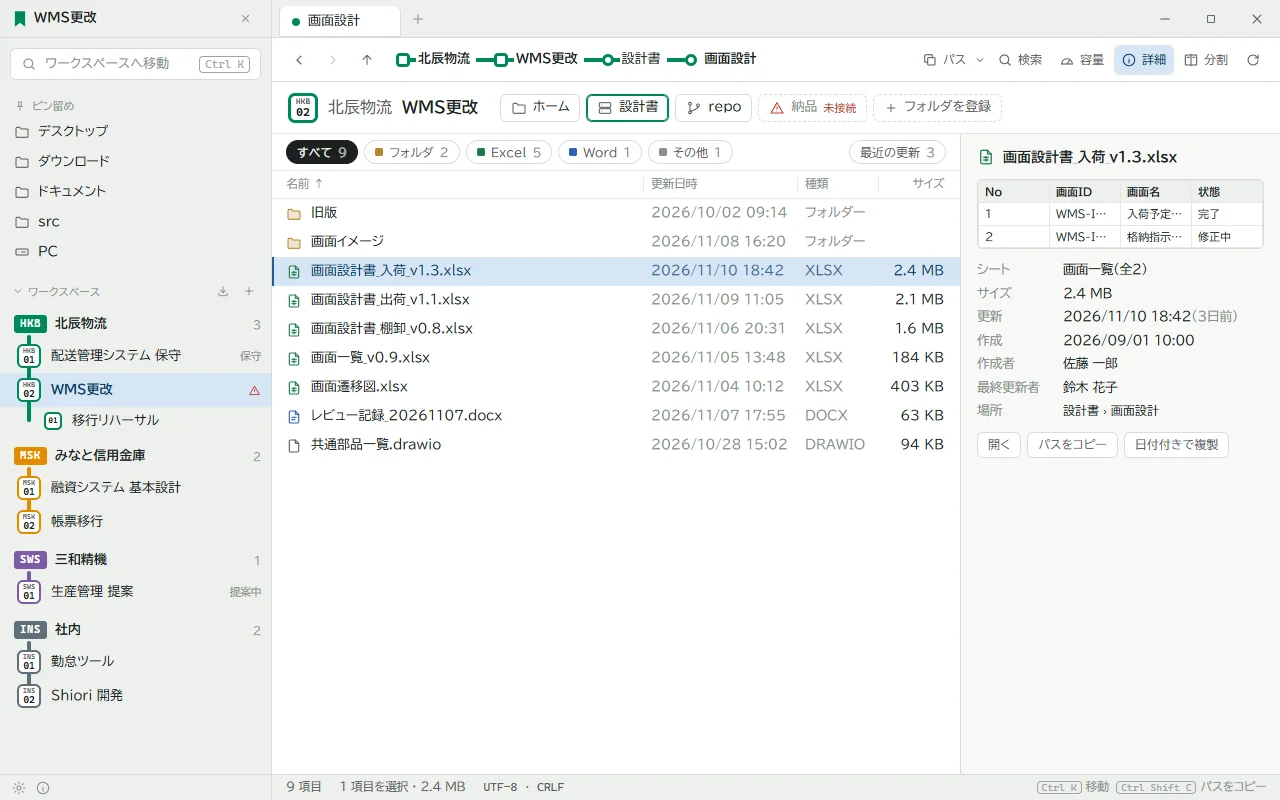
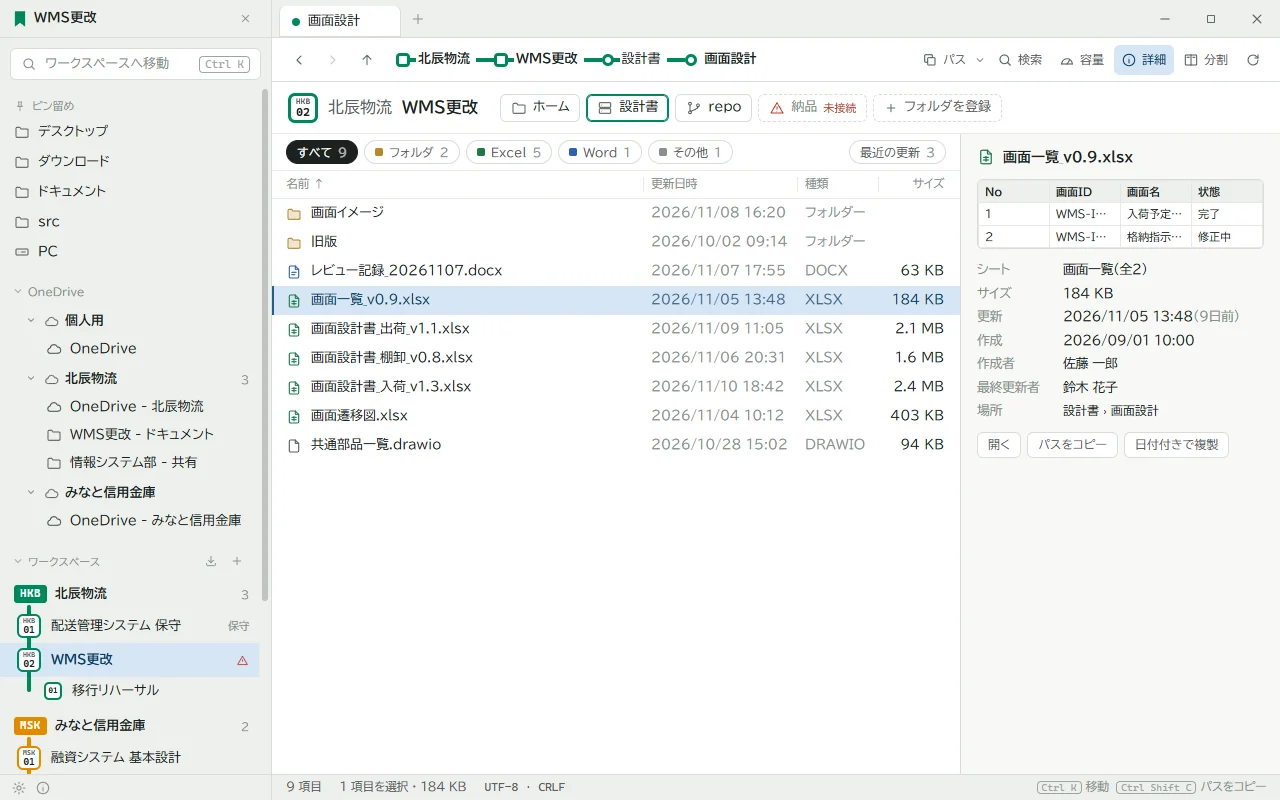
使い方ガイドを更新する
- Git: ログ（グラフ・アクション・変更行の合計）、ほかのブランチの表示、差分のウィンドウ（色分け）
- 画面の見かた: OneDrive の欄を追加。画面の写真を今のものに撮り直す
- 並び順（フォルダごとに保存、ダウンロードは新しい順）、OneDrive、見つからないフォルダの扱い

diff --git a/guide/index.html b/guide/index.html
@@ -103,18 +103,20 @@
         <img src="img/overview.webp" alt="Shiori の画面全体。左にサイドバー、右にファイルの一覧" width="1280" height="800">
         <span class="pin" style="left: 22%; top: 7.9%">1</span>
         <span class="pin" style="left: 15.6%; top: 20%">2</span>
-        <span class="pin" style="left: 15.6%; top: 40.4%">3</span>
-        <span class="pin" style="left: 32.6%; top: 2.5%">4</span>
-        <span class="pin" style="left: 61.7%; top: 7.3%">5</span>
-        <span class="pin" style="left: 85.2%; top: 11%">6</span>
-        <span class="pin" style="left: 80.8%; top: 13.3%">7</span>
-        <span class="pin" style="left: 58.6%; top: 19%">8</span>
-        <span class="pin" style="left: 46.9%; top: 70%">9</span>
-        <span class="pin" style="left: 6.5%; top: 98%">10</span>
+        <span class="pin" style="left: 15.6%; top: 36.5%">3</span>
+        <span class="pin" style="left: 15.6%; top: 74.1%">4</span>
+        <span class="pin" style="left: 32.6%; top: 2.5%">5</span>
+        <span class="pin" style="left: 61.7%; top: 7.3%">6</span>
+        <span class="pin" style="left: 85.2%; top: 11%">7</span>
+        <span class="pin" style="left: 80.8%; top: 13.3%">8</span>
+        <span class="pin" style="left: 58.6%; top: 19%">9</span>
+        <span class="pin" style="left: 46.9%; top: 70%">10</span>
+        <span class="pin" style="left: 6.5%; top: 98%">11</span>
       </figure>
       <ol class="legend">
         <li><b>ワークスペースへ移動</b><span>名前の一部で探して開きます（<kbd>Ctrl</kbd>+<kbd>K</kbd>）。</span></li>
         <li><b>ピン留め・PC</b><span>よく使うフォルダと、ドライブの一覧。</span></li>
+        <li><b>OneDrive</b><span>アカウント（個人用・会社ごと）にまとまって並びます。会社の SharePoint から同期したフォルダも。</span></li>
         <li><b>ワークスペース</b><span>案件ごとのフォルダのまとまり。色と略称で見分けます。</span></li>
         <li><b>タブ</b><span>ワークスペースごとに、開いていたタブを覚えています。</span></li>
         <li><b>パスのバー</b><span>今いる場所。クリックすると、その階層へ移動します。</span></li>
@@ -140,7 +142,8 @@
         <li><b>並べ替え:</b> サイドバーでドラッグ。右クリックで名前の変更・色・略称（HKB など）の編集。</li>
         <li><b>上から順に開く:</b> <kbd>Ctrl</kbd>+<kbd>1</kbd>〜<kbd>9</kbd>。</li>
         <li><b>外す:</b> 右クリック →「Shiori から外す」。<b>フォルダそのものは消えません。</b></li>
-        <li>接続できないフォルダ（VPN が切れている共有フォルダなど）には「未接続」と出ます。</li>
+        <li>接続できないフォルダ（VPN が切れている共有フォルダなど）には「未接続」、削除や移動で見つからないフォルダには「見つかりません」と出ます。押すと、場所を選び直す・上の階層を開く・登録から外す（フォルダは消えません）を選べます。</li>
+        <li>ピン留めやテンプレートのフォルダが見つからないときは、薄く表示されます。開いていたフォルダが見つからないときは、近くの上の階層を開きます。</li>
       </ul>
       <h3>名前で探して開く</h3>
       <div class="pair">
@@ -188,6 +191,7 @@
         <li>パスのバーの各部分をクリックすると、その階層へ。長いパスで「…」になっている部分も、押すと一覧が出ます。</li>
         <li>一覧で文字を打つと、その名前で始まるファイルへカーソルが移ります（エクスプローラーと同じ）。</li>
         <li>よく使うフォルダは、右クリックの「ピン留め」でサイドバーに並べられます。</li>
+        <li>OneDrive は、サイドバーの「OneDrive」にアカウントごと（個人用・会社ごと）にまとまって並びます。会社の SharePoint や Teams から同期したフォルダも、その会社の下に入ります。ワークスペースと同じように折りたためます。</li>
         <li>ZIP・7z などの圧縮ファイルは、ダブルクリックでフォルダのように中へ入れます（7z・rar は 7-Zip が必要）。</li>
       </ul>
     </section>
@@ -208,6 +212,7 @@
       <ul class="do">
         <li>今のフォルダの中だけを名前で絞るときは <kbd>Ctrl</kbd>+<kbd>Shift</kbd>+<kbd>F</kbd>。</li>
         <li>一覧の上の「Excel」「Word」などのボタンで、種類ごとに絞れます。</li>
+        <li>並び順は列の見出しをクリックして変えます（右クリックで一覧から選べます）。並び順はフォルダごとに覚えていて、ダウンロードのフォルダは最初から新しい順です。名前順ではフォルダが先、続いてファイル。更新日時・サイズ順ではフォルダとファイルを区別せずに並べます（見出しの右クリックで、フォルダを先にすることもできます）。</li>
       </ul>
     </section>
 
@@ -264,8 +269,36 @@
       <p>Git のリポジトリを開くと、パスのバーの右にブランチ名と、まだコミットしていない変更の数が出ます。数えるのは今開いているフォルダの中だけです。押すと、変更のあるファイルの一覧が出ます。</p>
       <figure>
         <img src="img/git.webp" alt="ブランチ名と変更の数のボタンを押して、変更のあるファイルの一覧が出ているところ" width="1280" height="800" loading="lazy">
-        <figcaption>読み取りだけで、fetch や pull などはしません。一覧の変更のあるファイルにも印が付きます。</figcaption>
+        <figcaption>変更の種類と件数、変更のあるファイルの一覧。下の「ログを見る」でコミットの一覧を開けます。読み取りだけで、fetch や pull などはしません。一覧の変更のあるファイルにも印が付きます。</figcaption>
       </figure>
+      <h3>ログと差分</h3>
+      <p>Git のボタンの「ログを見る」、右クリックの「Git のログを見る」、<kbd>Ctrl</kbd>+<kbd>Shift</kbd>+<kbd>L</kbd> で、今のフォルダを変更したコミットの一覧を別のウィンドウで開きます。ファイルを右クリックすると、そのファイルだけの履歴も見られます。</p>
+      <figure>
+        <img src="img/gitlog.webp" alt="Git のログのウィンドウ。グラフ・アクション・件名・作者・日時の列でコミットが並び、下にメッセージと変更したファイル" width="1280" height="800" loading="lazy">
+        <figcaption>コミットの一覧。左の「グラフ」でブランチとマージの流れが、「アクション」で変更の種類（M 変更・A 追加・D 削除・R 名前の変更）がわかります。選んだコミットのメッセージと変更したファイル（変更行の合計つき）が下に出ます。</figcaption>
+      </figure>
+      <ul class="do">
+        <li>いちばん上の「コミットしていない変更」で、作業中の変更も確かめられます。</li>
+        <li>上の欄で、メッセージ・作者・コミット ID で絞り込めます（<kbd>Ctrl</kbd>+<kbd>F</kbd>）。</li>
+        <li>一覧と下の詳細の境目は、ドラッグで高さを変えられます。</li>
+      </ul>
+      <h3>ほかのブランチのログ</h3>
+      <div class="pair">
+        <figure>
+          <img src="img/gitbranches.webp" alt="ブランチ名のボタンを押して、ローカル・リモートのブランチとタグの一覧が出ているところ" width="1280" height="800" loading="lazy">
+          <figcaption>左上のブランチ名を押すと、ブランチとタグの一覧が出ます。選ぶとそのブランチのログを表示します。</figcaption>
+        </figure>
+        <figure>
+          <img src="img/gitdiff.webp" alt="差分のウィンドウ。変更前と変更後が左右に並び、変わった行と文字に色が付いている" width="1280" height="800" loading="lazy">
+          <figcaption>ファイルをダブルクリック（または <kbd>Enter</kbd>）すると、差分のウィンドウで変更前と変更後を並べて比べます。コードはプレビューと同じように色分けして表示します。</figcaption>
+        </figure>
+      </div>
+      <ul class="do">
+        <li>ほかのブランチは<b>表示するだけ</b>で、チェックアウトはしません。「すべてのブランチ」で全部のブランチのコミットを並べることもできます。</li>
+        <li>差分のウィンドウは 1 つで、別のファイルを開くと切り替わります。<kbd>Alt</kbd>+<kbd>→</kbd> / <kbd>Alt</kbd>+<kbd>←</kbd> で同じコミットの次 / 前のファイル、<kbd>Alt</kbd>+<kbd>↓</kbd> / <kbd>Alt</kbd>+<kbd>↑</kbd>（または <kbd>F7</kbd>）で次 / 前の変更へ。</li>
+        <li>ログのウィンドウを閉じると、そこから開いた差分のウィンドウも閉じます。</li>
+        <li>WinMerge が入っていれば、ボタンから WinMerge でも比べられます。ファイルを右クリックすると、そのバージョンを開く、変更前のバージョンを開く、このファイルの履歴、Shiori で場所を表示、など。</li>
+      </ul>
     </section>
 
     <section class="ch" id="disk" style="--c: var(--slate)">
